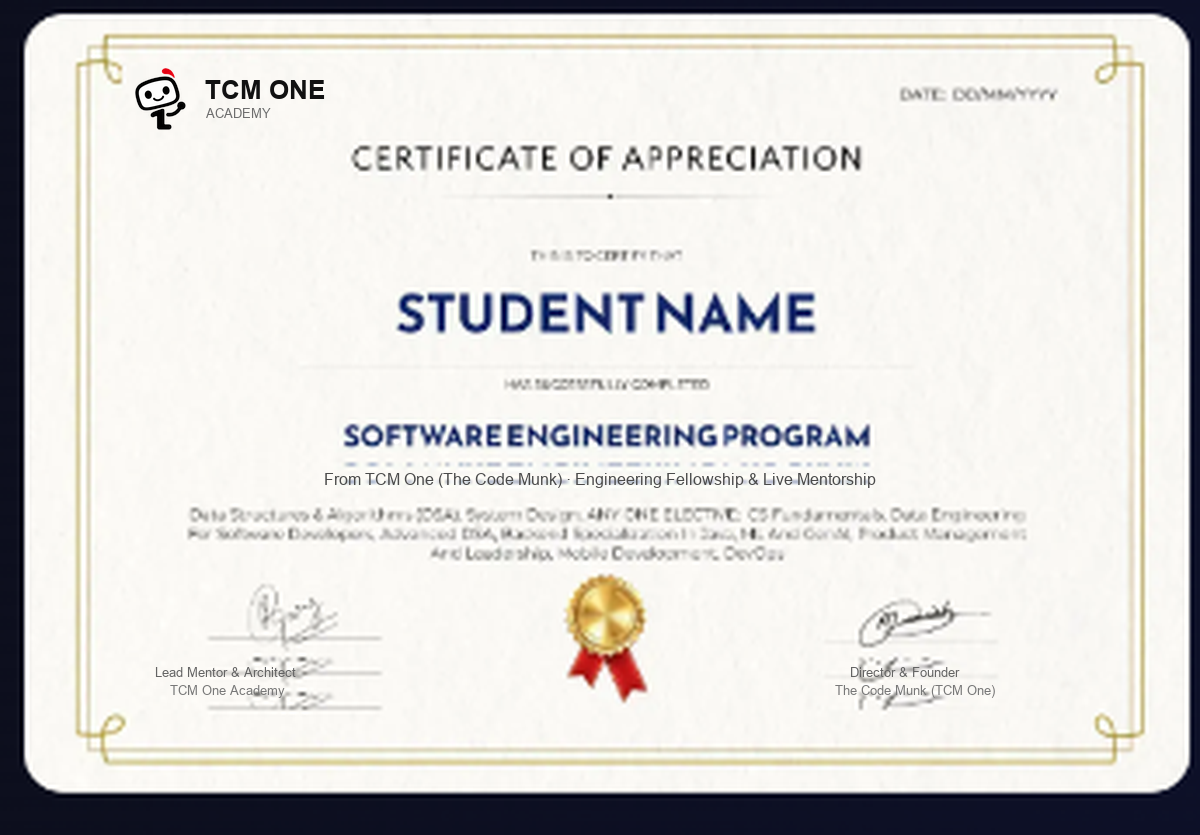
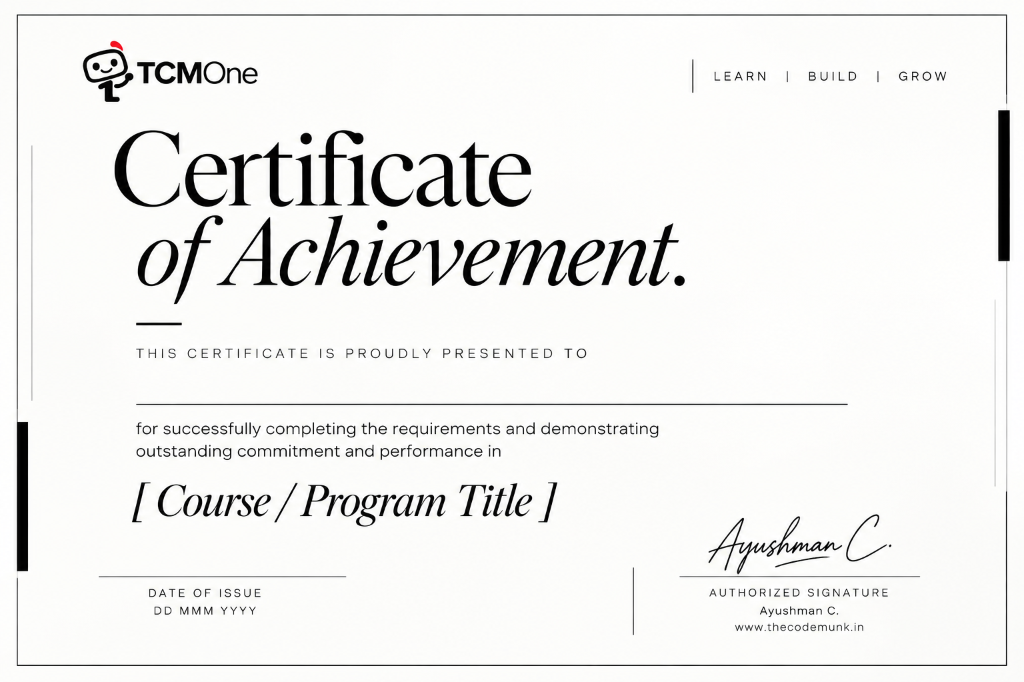
feat(homepage): update primary certificate preview with editorial achievement certificate

Changed region(s): [[0.0, 0.0, 1.0, 1.0], [0.125, 0.1848, 0.1875, 0.2155]]

diff --git a/index.html b/index.html
@@ -1200,7 +1200,7 @@
         </div>
         <div class="tcm-cert-grid">
           <button type="button" class="tcm-cert-card" data-cert-src="./assets/cert-tcm-student.png" data-cert-title="TCM One Program Certificate" aria-label="View TCM One Program Certificate">
-            <img src="./assets/cert-tcm-student.png" alt="TCM One software engineering program certificate" class="tcm-cert-img" loading="lazy" width="1200" height="835">
+            <img src="./assets/cert-tcm-student.png" alt="TCM One software engineering program certificate" class="tcm-cert-img" loading="lazy" width="1024" height="682">
           </button>
           <button type="button" class="tcm-cert-card" data-cert-src="./assets/cert-nasscom-partner.png" data-cert-title="Industry Recognition Certificate" aria-label="View Industry Recognition Certificate">
             <img src="./assets/cert-nasscom-partner.png" alt="Industry recognition certificate preview" class="tcm-cert-img" loading="lazy" width="1200" height="823">
